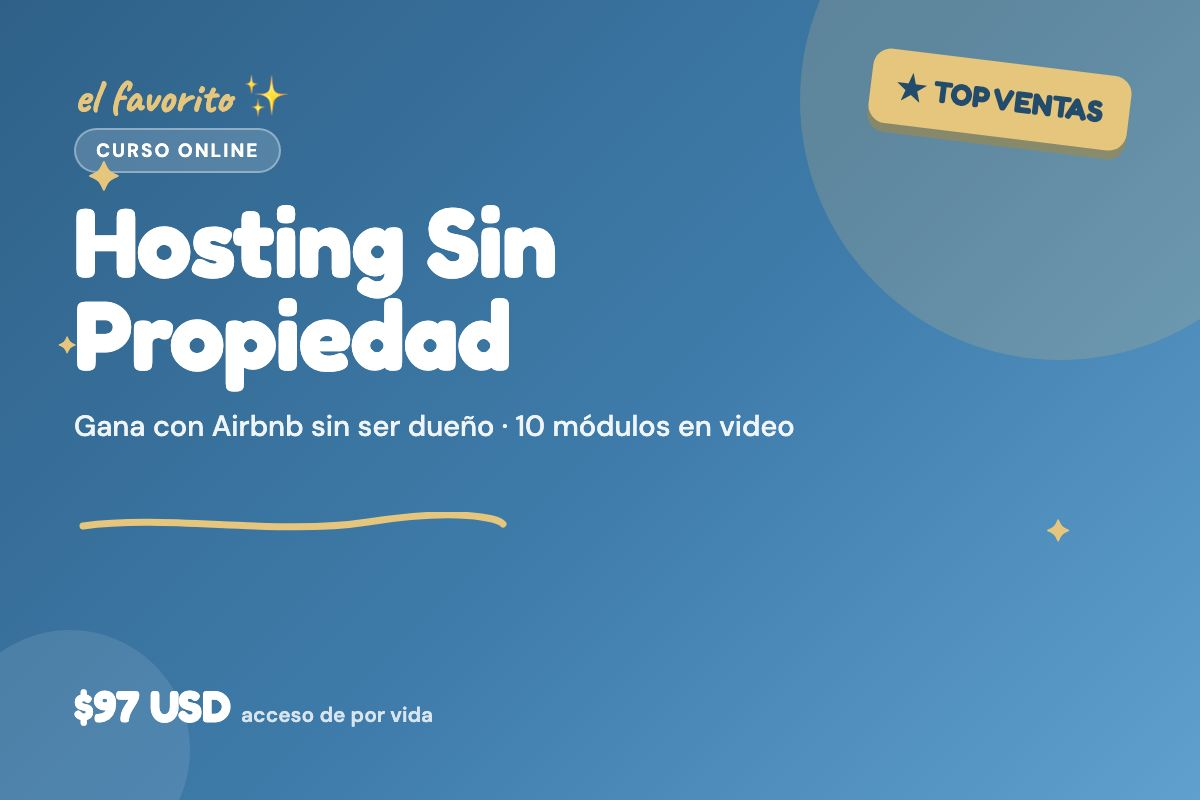
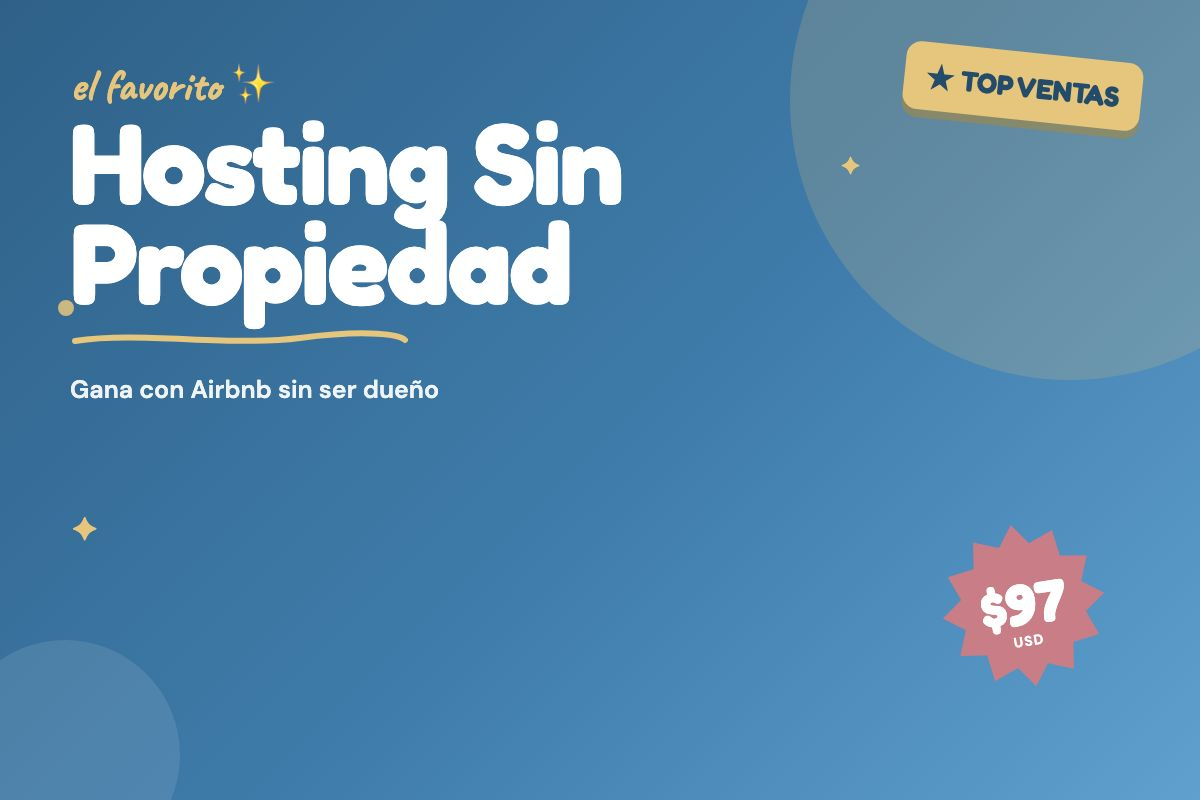
Portadas con titulos mucho mas grandes (protagonistas) y sello de precio; pagina Aprende conmigo reorganizada en 3 categorias: Cursos y ebook, Plantillas y herramientas para anfitriones, Asesoria 1:1

diff --git a/aprende-conmigo.html b/aprende-conmigo.html
@@ -105,17 +105,17 @@ src="https://www.facebook.com/tr?id=1270112635290396&ev=PageView&noscript=1"/></
 <section class="shop">
 
   <div class="cat-group">
-    <div class="cat-head"><h2>🎓 Cursos</h2><span class="line"></span></div>
+    <div class="cat-head"><h2>&#127891; Cursos y ebook</h2><span class="line"></span></div>
     <div class="shop-grid">
       <div class="shop-card feat">
-        <span class="shop-tag">★ Más popular</span>
+        <span class="shop-tag">&#9733; M&#225;s popular</span>
         <img class="cover" src="assets/cover-curso.jpg" alt="Curso Hosting Sin Propiedad" loading="lazy">
         <div class="shop-body">
           <div class="shop-cat">Curso online</div>
           <div class="shop-name">Hosting Sin Propiedad</div>
-          <div class="shop-desc">El sistema completo: 10 módulos en video, plantillas y herramientas para ganar con Airbnb sin ser dueño.</div>
+          <div class="shop-desc">El sistema completo: 10 m&#243;dulos en video, plantillas y herramientas para ganar con Airbnb sin ser due&#241;o.</div>
           <div class="shop-price">$97 USD <small>Acceso de por vida</small></div>
-          <a href="https://pay.hotmart.com/N101179190K" target="_blank" rel="noopener" class="shop-btn">Acceder al curso →</a>
+          <a href="https://pay.hotmart.com/N101179190K" target="_blank" rel="noopener" class="shop-btn">Acceder al curso &#8594;</a>
         </div>
       </div>
       <div class="shop-card">
@@ -123,65 +123,37 @@ src="https://www.facebook.com/tr?id=1270112635290396&ev=PageView&noscript=1"/></
         <div class="shop-body">
           <div class="shop-cat">Clase en vivo</div>
           <div class="shop-name">Airbnb Freedom Method</div>
-          <div class="shop-desc">El método intensivo que grabé en vivo, paso a paso. La versión más directa del sistema.</div>
+          <div class="shop-desc">El m&#233;todo intensivo que grab&#233; en vivo, paso a paso. La versi&#243;n m&#225;s directa del sistema.</div>
           <div class="shop-price">$39 USD</div>
           <a href="https://pay.hotmart.com/O104862281K" target="_blank" rel="noopener" class="shop-btn">Acceder al m&#233;todo &#8594;</a>
         </div>
       </div>
-    </div>
-  </div>
-
-  <div class="cat-group">
-    <div class="cat-head"><h2>💬 Asesorías</h2><span class="line"></span></div>
-    <div class="shop-grid">
-      <div class="shop-card">
-        <img class="cover" src="assets/cover-asesoria.jpg" alt="Asesoría 1:1 con Sofía Retif" loading="lazy">
-        <div class="shop-body">
-          <div class="shop-cat">Asesoría 1:1</div>
-          <div class="shop-name">Mentoría conmigo</div>
-          <div class="shop-desc">Revisamos tu ciudad, tus números y armamos un plan de acción concreto para tu negocio.</div>
-          <div class="shop-price">$500 USD <small>2 horas o más</small></div>
-          <a href="https://calendly.com/sofiahosting" target="_blank" rel="noopener" class="shop-btn">Agendar asesoría →</a>
-        </div>
-      </div>
-    </div>
-  </div>
-
-  <div class="cat-group">
-    <div class="cat-head"><h2>📘 Ebooks</h2><span class="line"></span></div>
-    <div class="shop-grid">
       <div class="shop-card">
         <img class="cover" src="assets/cover-ebook.jpg" alt="Ebook Airbnb de Cero" loading="lazy">
         <div class="shop-body">
           <div class="shop-cat">Ebook</div>
           <div class="shop-name">Airbnb de Cero</div>
-          <div class="shop-desc">La guía para dar tu primer paso en el arbitraje, explicada simple y al grano.</div>
+          <div class="shop-desc">La gu&#237;a para dar tu primer paso en el arbitraje, explicada simple y al grano.</div>
           <div class="shop-price">$9.99 USD</div>
-          <a href="https://pay.hotmart.com/E101057996F" target="_blank" rel="noopener" class="shop-btn">Comprar ebook →</a>
+          <a href="https://pay.hotmart.com/E101057996F" target="_blank" rel="noopener" class="shop-btn">Comprar ebook &#8594;</a>
         </div>
       </div>
     </div>
   </div>
 
   <div class="cat-group">
-    <div class="cat-head"><h2>🧩 Plantillas</h2><span class="line"></span></div>
+    <div class="cat-head"><h2>&#129513; Plantillas y herramientas para anfitriones</h2><span class="line"></span></div>
     <div class="shop-grid">
       <div class="shop-card">
         <img class="cover" src="assets/cover-plantillas.jpg" alt="Plantillas Airbnb Host Kit" loading="lazy">
         <div class="shop-body">
           <div class="shop-cat">Plantillas Canva</div>
           <div class="shop-name">Airbnb Host Kit</div>
-          <div class="shop-desc">Bienvenida, reglas de la casa y guías editables para impresionar a tus huéspedes.</div>
+          <div class="shop-desc">Bienvenida, reglas de la casa y gu&#237;as editables para impresionar a tus hu&#233;spedes.</div>
           <div class="shop-price">$19 USD</div>
-          <a href="https://socialmediarules.com.mx/producto/airbnb-host-kit-colaboracion-con-sofi/" target="_blank" rel="noopener" class="shop-btn">Ver plantillas →</a>
+          <a href="https://socialmediarules.com.mx/producto/airbnb-host-kit-colaboracion-con-sofi/" target="_blank" rel="noopener" class="shop-btn">Ver plantillas &#8594;</a>
         </div>
       </div>
-    </div>
-  </div>
-
-  <div class="cat-group">
-    <div class="cat-head"><h2>📊 Herramientas</h2><span class="line"></span></div>
-    <div class="shop-grid">
       <div class="shop-card">
         <img class="cover" src="assets/cover-auditbnb.jpg" alt="Auditbnb, herramienta gratis" loading="lazy">
         <div class="shop-body">
@@ -189,7 +161,23 @@ src="https://www.facebook.com/tr?id=1270112635290396&ev=PageView&noscript=1"/></
           <div class="shop-name">Auditbnb</div>
           <div class="shop-desc">Descubre en segundos si un Airbnb es rentable en tu ciudad antes de invertir.</div>
           <div class="shop-price">Gratis</div>
-          <a href="https://auditbnb.com" target="_blank" rel="noopener" class="shop-btn">Auditar mi Airbnb →</a>
+          <a href="https://auditbnb.com" target="_blank" rel="noopener" class="shop-btn">Auditar mi Airbnb &#8594;</a>
+        </div>
+      </div>
+    </div>
+  </div>
+
+  <div class="cat-group">
+    <div class="cat-head"><h2>&#128172; Asesor&#237;a 1:1</h2><span class="line"></span></div>
+    <div class="shop-grid">
+      <div class="shop-card">
+        <img class="cover" src="assets/cover-asesoria.jpg" alt="Asesor&#237;a 1:1 con Sof&#237;a Retif" loading="lazy">
+        <div class="shop-body">
+          <div class="shop-cat">Asesor&#237;a 1:1</div>
+          <div class="shop-name">Mentor&#237;a conmigo</div>
+          <div class="shop-desc">Revisamos tu ciudad, tus n&#250;meros y armamos un plan de acci&#243;n concreto para tu negocio.</div>
+          <div class="shop-price">$500 USD <small>2 horas o m&#225;s</small></div>
+          <a href="https://calendly.com/sofiahosting" target="_blank" rel="noopener" class="shop-btn">Agendar asesor&#237;a &#8594;</a>
         </div>
       </div>
     </div>
